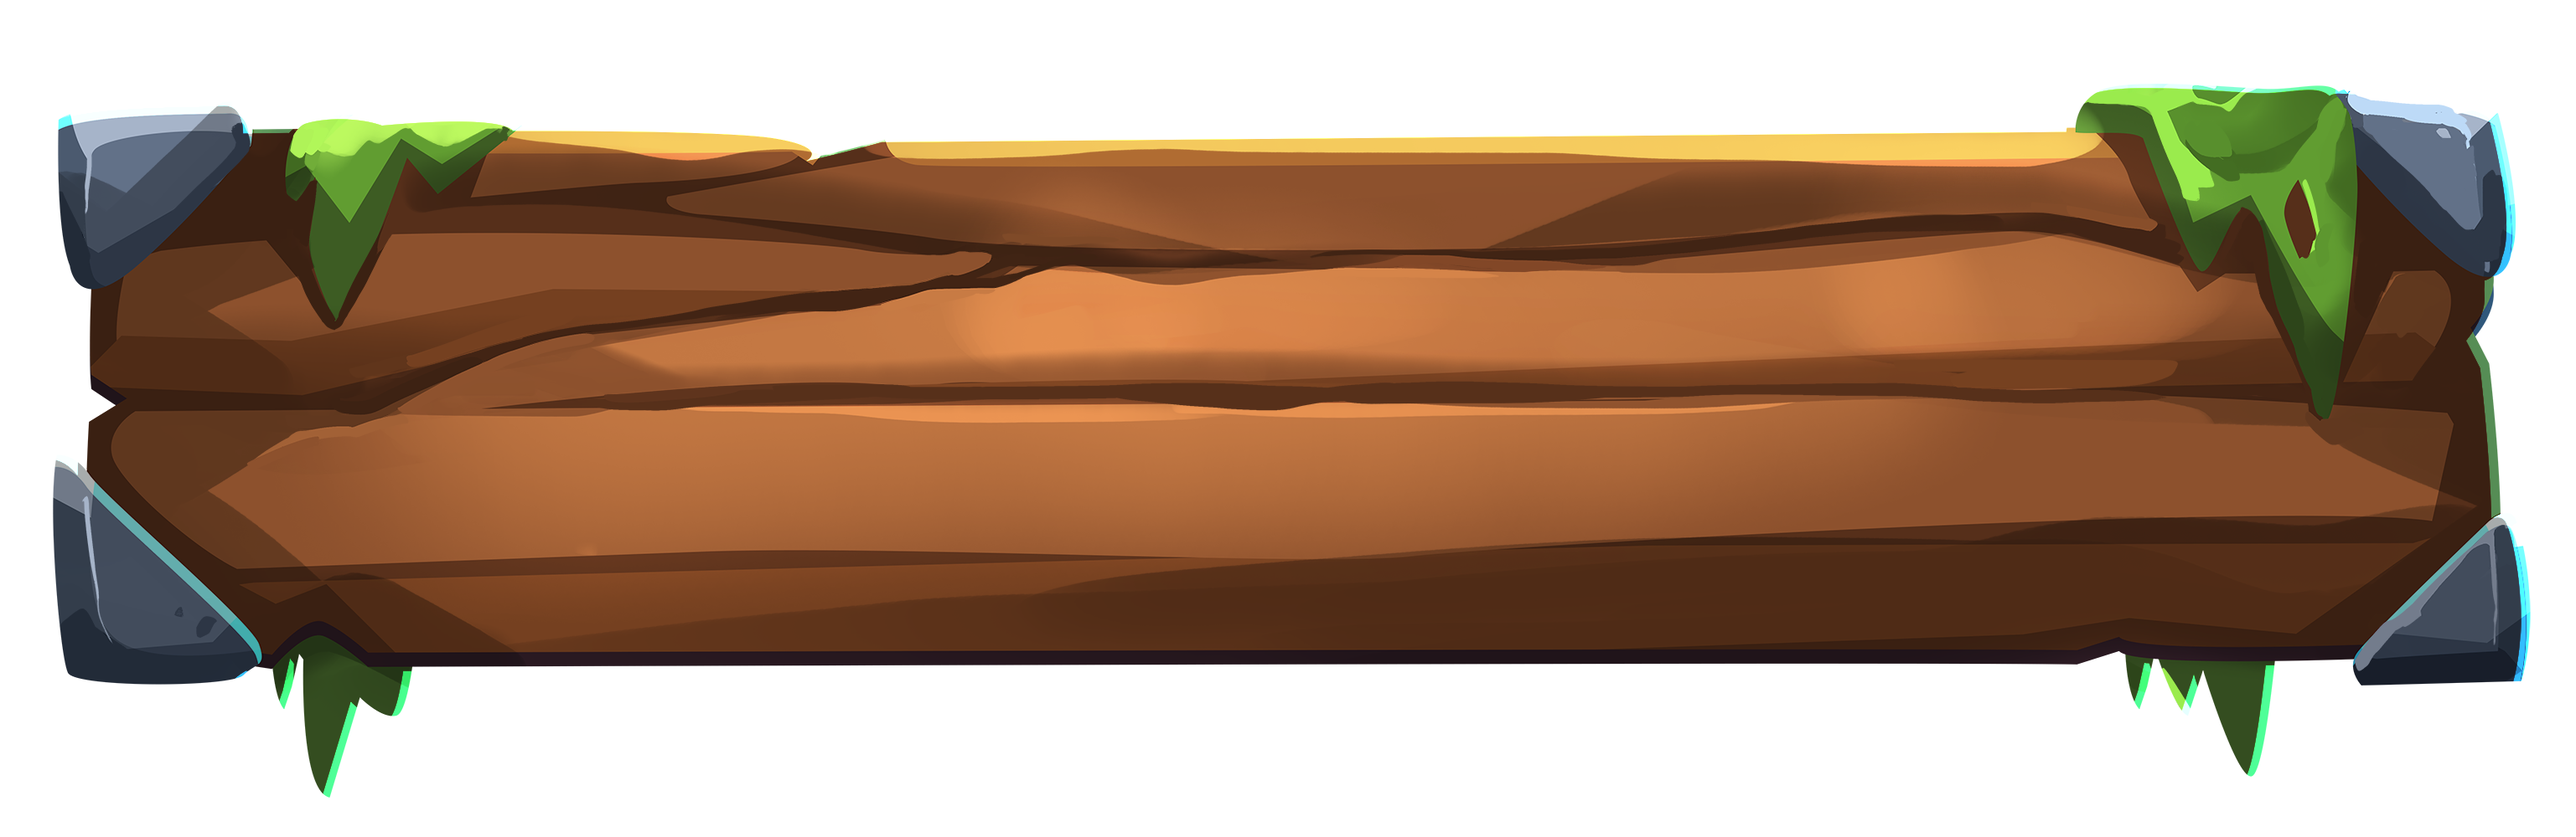
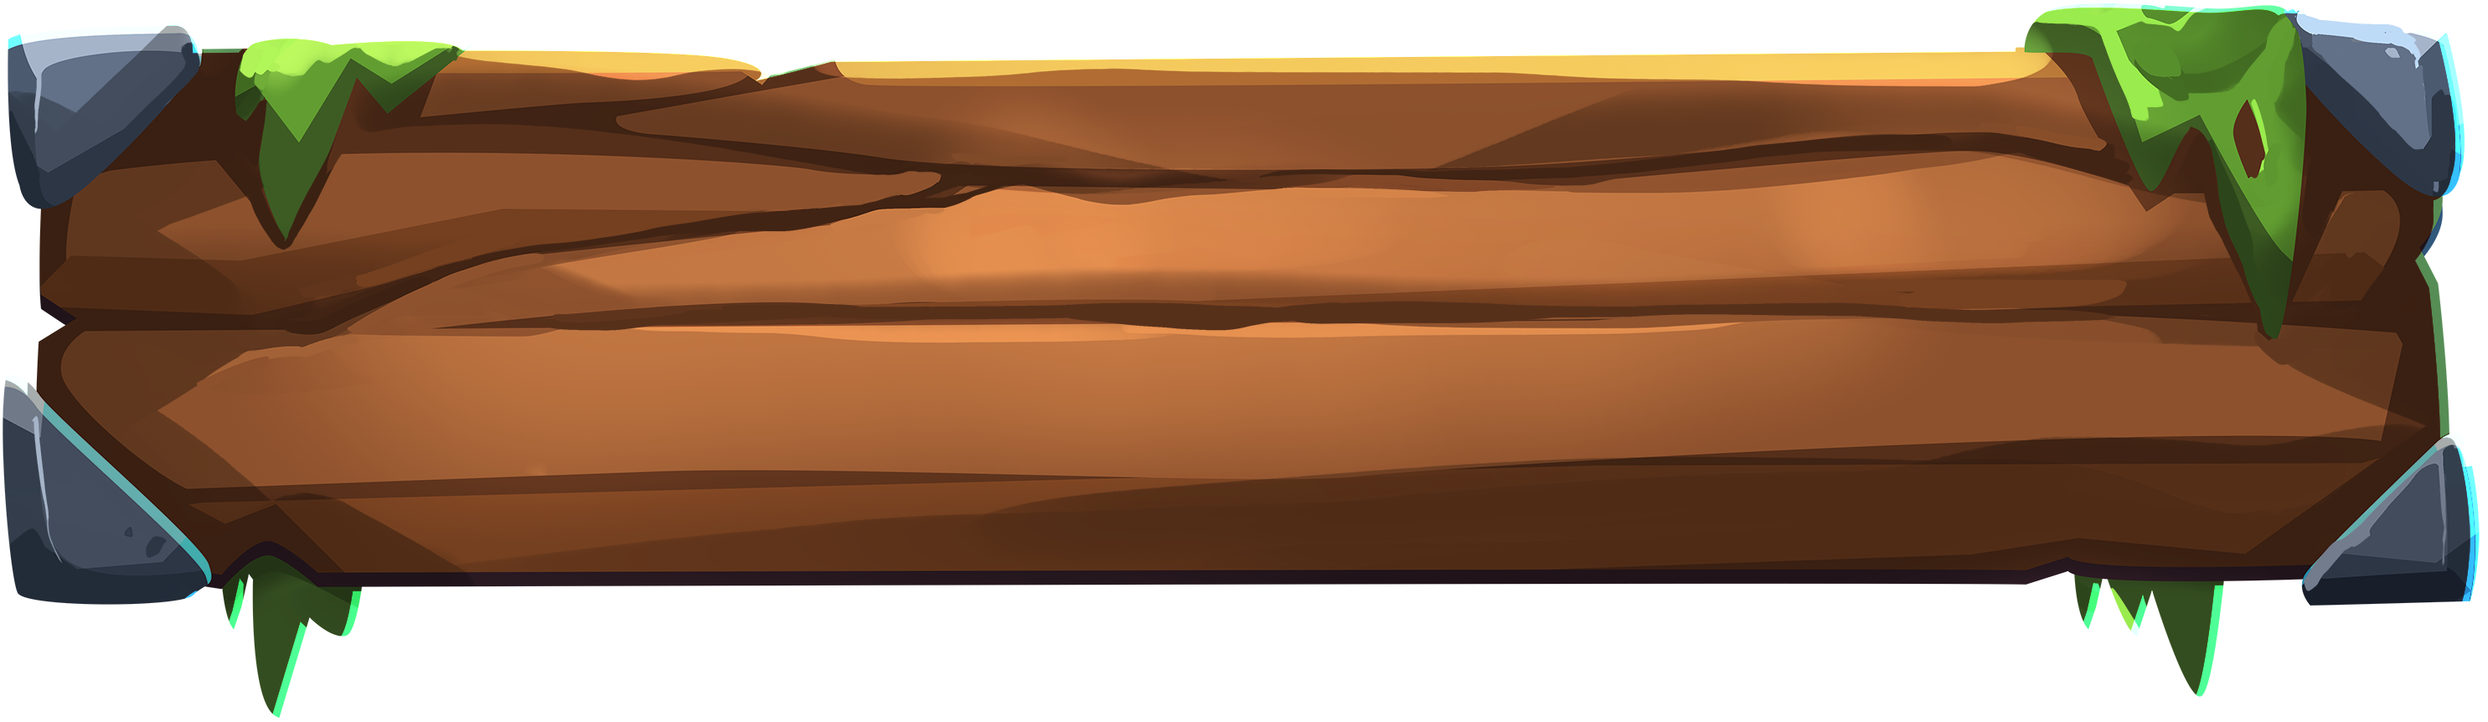
Adjust action board scss

diff --git a/src/Components/App/Game/ActionBoard/ActionBoard.scss b/src/Components/App/Game/ActionBoard/ActionBoard.scss
@@ -1,25 +1,20 @@
 @import "../../../../style/mixins.scss";
 
 #action-board {
-  position: fixed;
-  width: 100%;
-  bottom: 0;
-
-  #action-board-background {
-    position: absolute;
-    margin-top: -60px;
-    width: 100vw;
-    z-index: 1;
-  }
+  grid-area: "a";
+  background-image: url(../../../../res/img/dashboard.png);
+  background-repeat: no-repeat;
+  background-size: 100% 100%;
 
   #button-container {
+    margin-top: -1.5%;
+    position: relative;
     z-index: 5;
     display: flex;
     flex-direction: row;
     align-items: center;
     justify-content: center;
-    position: absolute;
-    width: 100vw;
+    height: 100%;
 
     img {
       width: 25%;

diff --git a/src/Components/App/Game/ActionBoard/ActionBoard.js b/src/Components/App/Game/ActionBoard/ActionBoard.js
@@ -69,7 +69,7 @@ class ActionBoard extends React.Component {
           )}
         </div>
 
-        <img src={ActionBoardBackground} alt="" id="action-board-background" />
+        {/* <img src={ActionBoardBackground} alt="" id="action-board-background" /> */}
 
         <div id="rune-select-area">
           {this.props.usersRunes.map((r, i) => {

diff --git a/src/Components/App/Game/_GameGrid.scss b/src/Components/App/Game/_GameGrid.scss
@@ -21,7 +21,7 @@ $dev-c: rgba(255, 0, 0, 0.185);
   "p p p"
   "p p p"
   "p p p"
-  "p p p"
+  "a a a"
   "a a a";
   
   #top-board {
